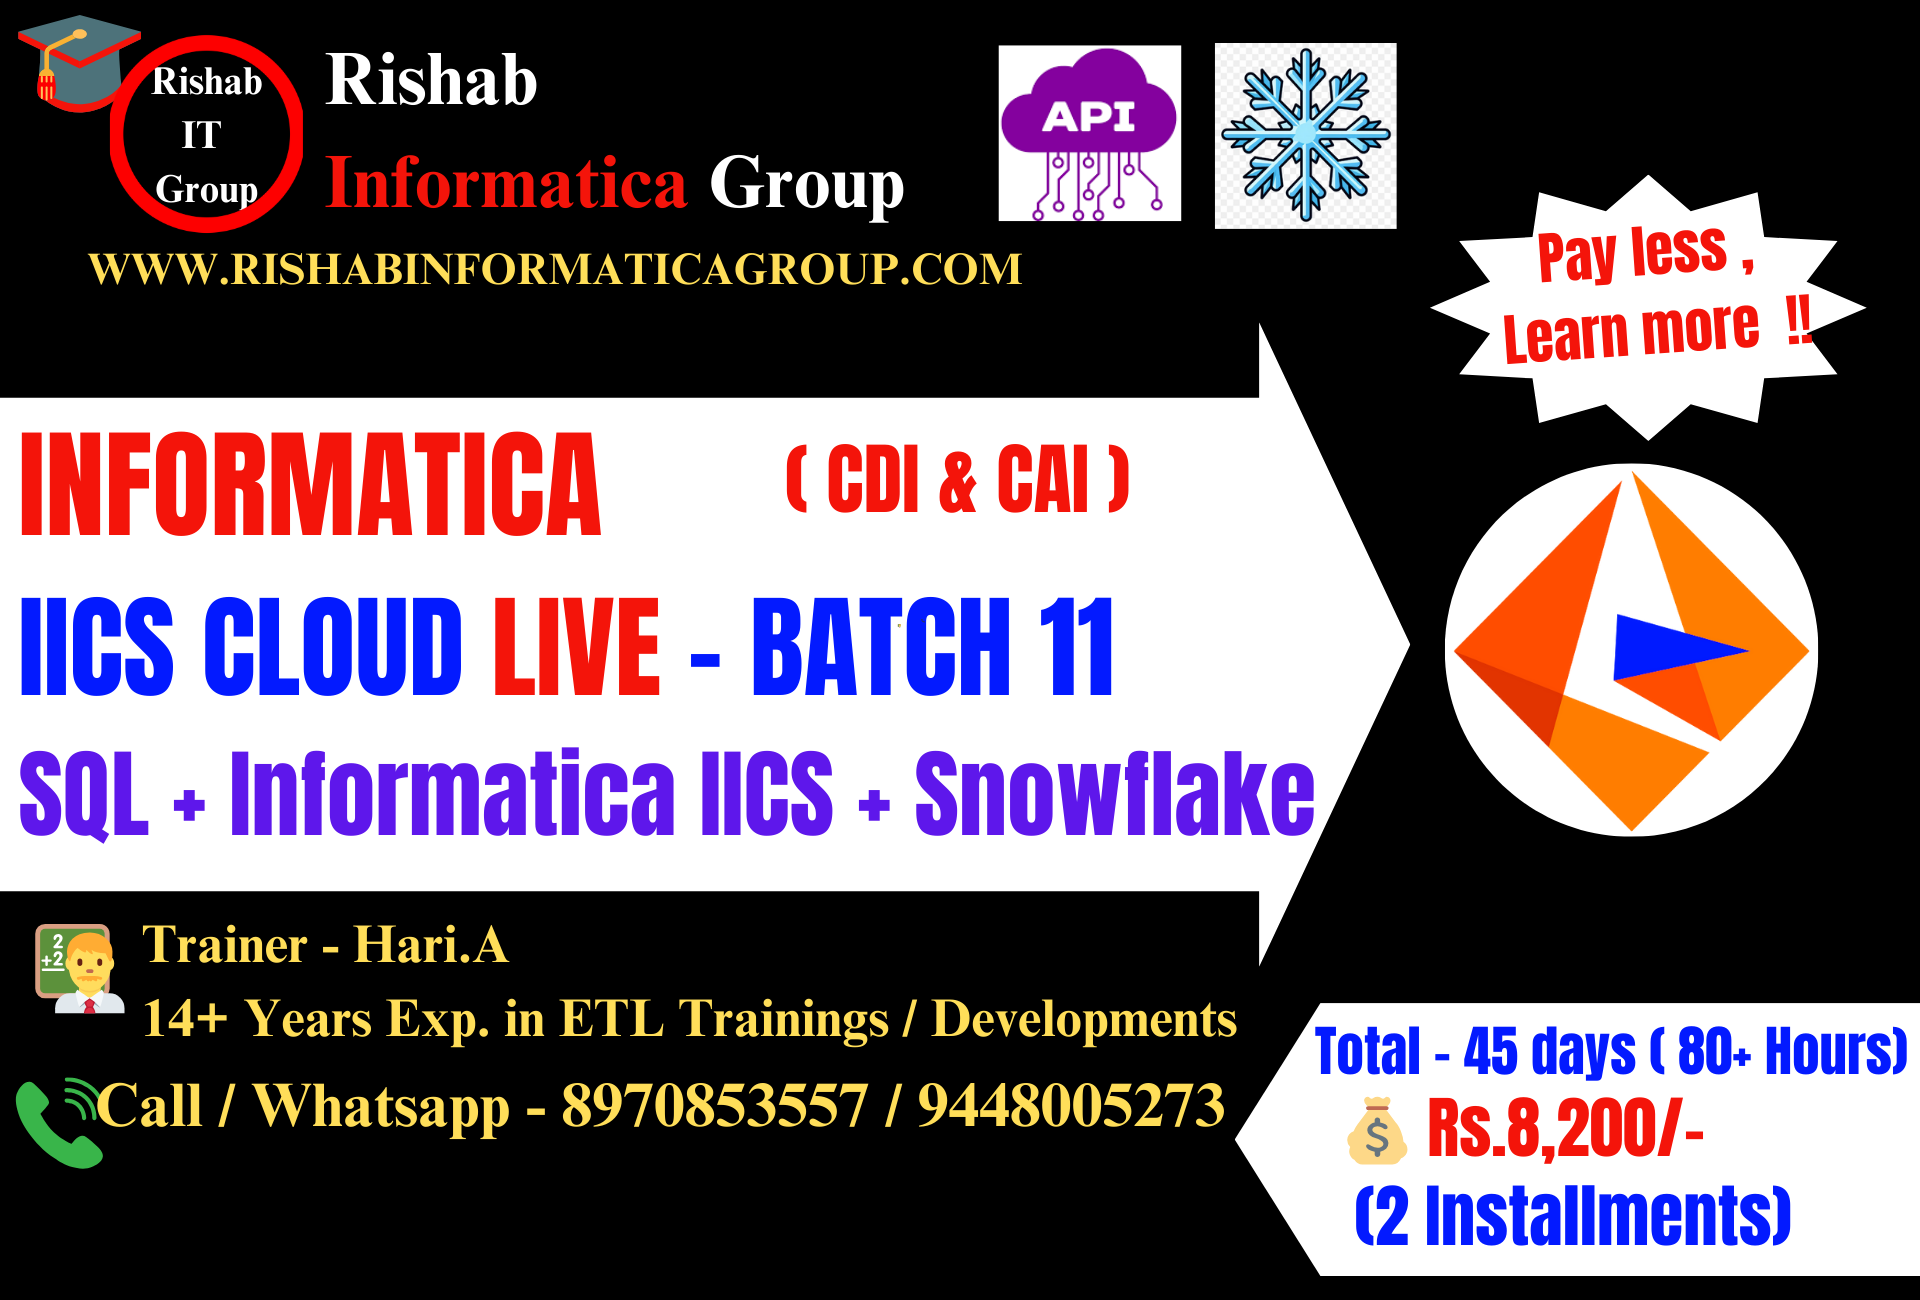
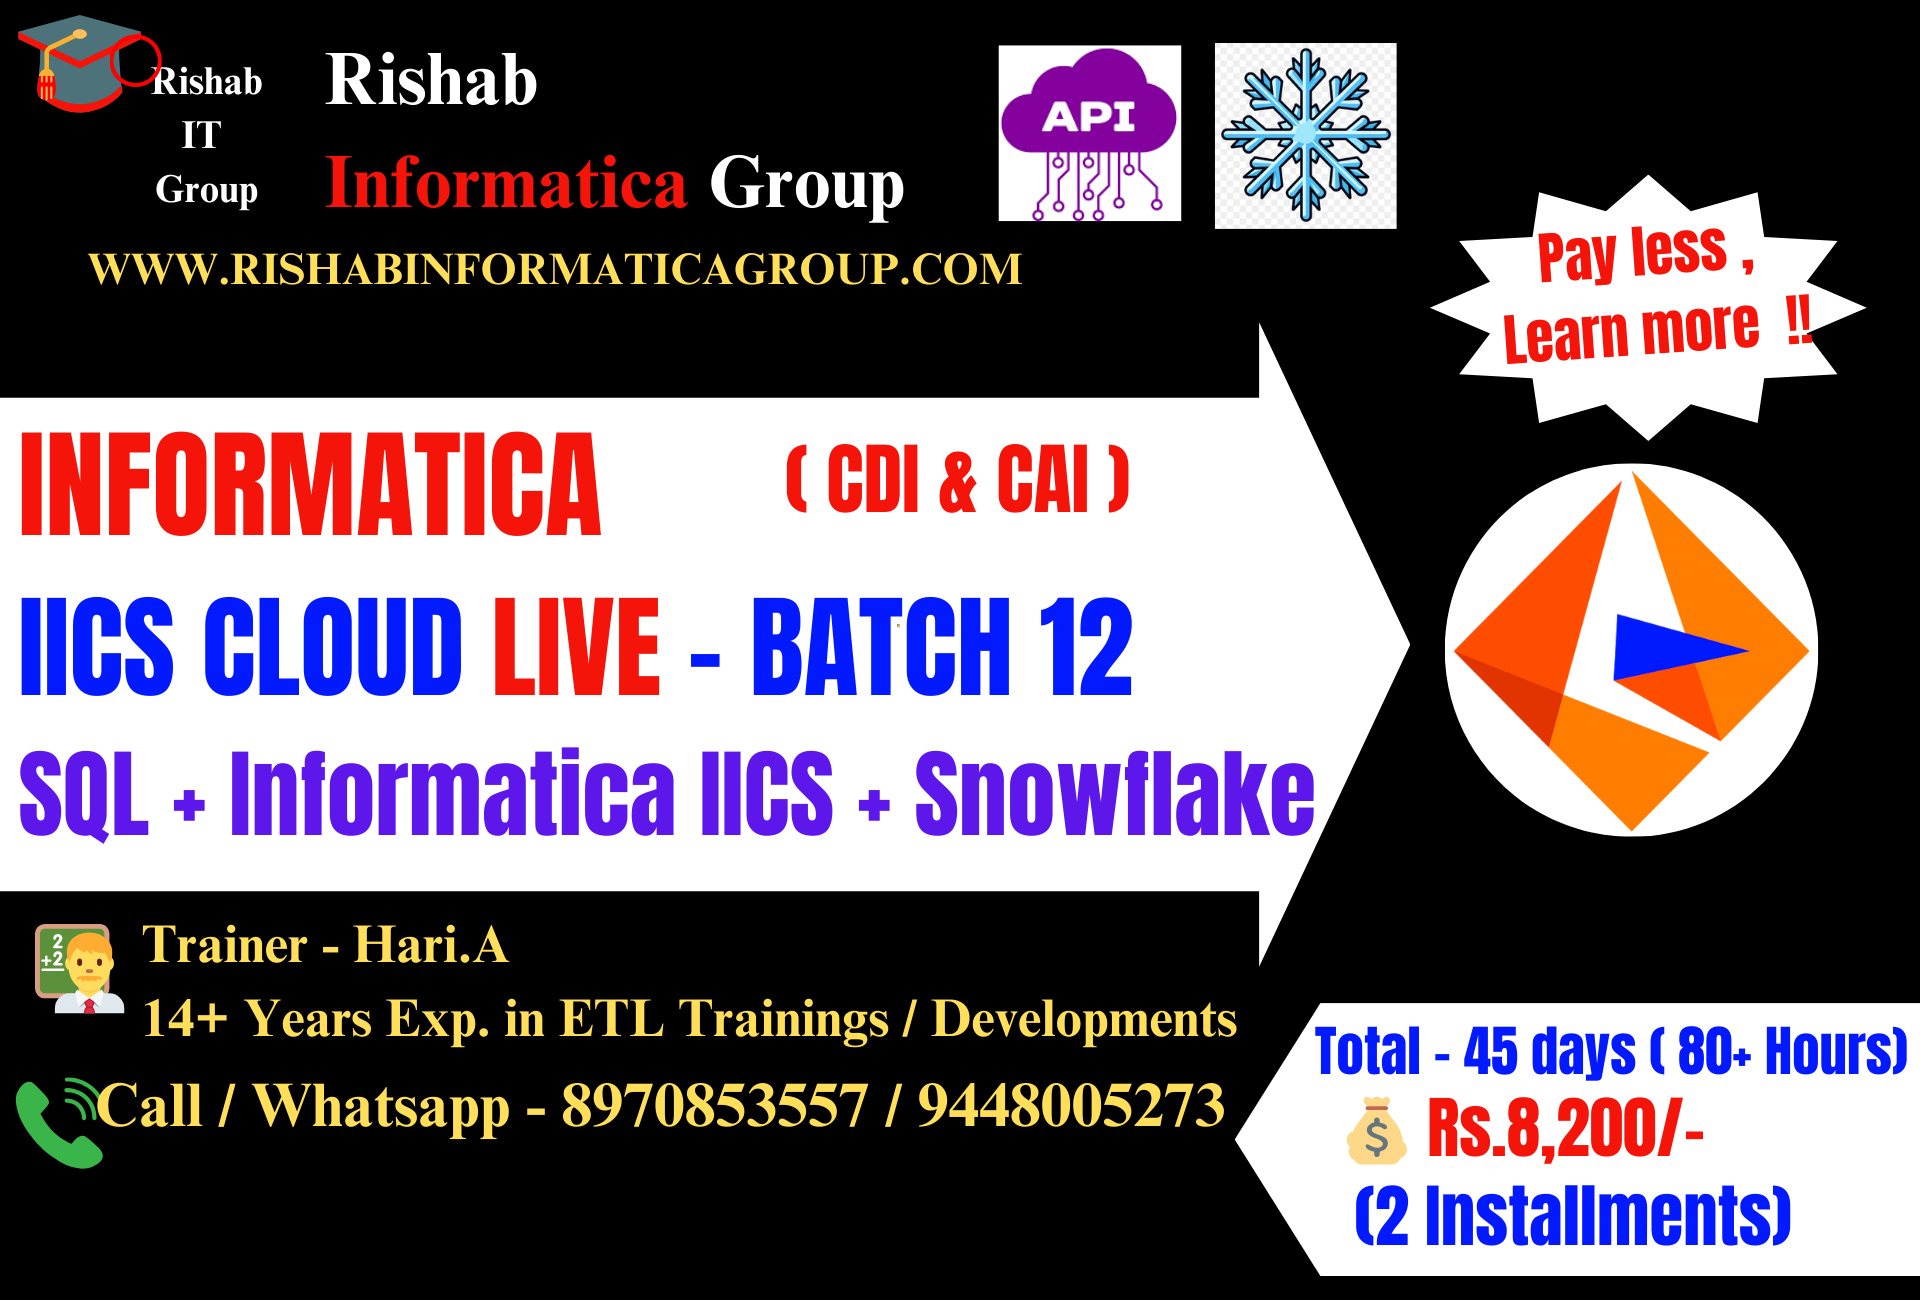
Batch 12 Annoucement

Changed region(s): [[0.0625, 0.0308, 0.1562, 0.1846], [0.5625, 0.4615, 0.5938, 0.5538], [0.0312, 0.0923, 0.0625, 0.1231]]

diff --git a/app/courses/iics-combo-live/page.tsx b/app/courses/iics-combo-live/page.tsx
@@ -7,7 +7,7 @@ import styles from "./page.module.css";
 
 export const metadata = {
   title: "Informatica IICS COMBO Training | PowerCenter + IICS + Snowflake",
-  description: "Join Batch 11 starting June 27, 2025. Master IICS Cloud, PowerCenter, and Snowflake with live projects and placement support.",
+  description: "Join Batch 12 starting Sep 10, 2025. Master IICS Cloud, PowerCenter, and Snowflake with live projects and placement support.",
 };
 
 export default function IICSComboPage() {
@@ -17,7 +17,7 @@ export default function IICSComboPage() {
       <section className={styles.hero}>
         <div className={styles.heroContent}>
           <div className={styles.heroText}>
-            <span className={styles.batchBadge}>New Batch 11 Starts June 27, 2025</span>
+            <span className={styles.batchBadge}>New Batch 12 Starts Sep 10, 2025, 7.15 PM to 9.00 PM</span>
             <h1>Informatica IICS <span className={styles.highlight}>COMBO</span> Training Live</h1>
             <h2>SQL + PowerCenter + IICS Cloud + Snowflake</h2>
             <p className={styles.heroDescription}>
@@ -170,18 +170,18 @@ export default function IICSComboPage() {
         <h2 className={styles.sectionTitle}>Next Batch Details</h2>
         <div className={styles.batchCards}>
           <div className={styles.batchCard}>
-            <h3>Batch 11</h3>
+            <h3>Batch 12</h3>
             <div className={styles.batchInfo}>
               <CalendarIcon />
-              <span>Starts: June 9, 2025</span>
+              <span>Starts: Sep 10, 2025</span>
             </div>
             <div className={styles.batchInfo}>
               <ClockIcon />
-              <span>Timing: 7:30 PM - 9:30 PM IST</span>
+              <span>Timing: 7:15 PM - 9:00 PM IST</span>
             </div>
             <div className={styles.priceTag}>₹9,600 <span className={styles.originalPrice}>₹18,000</span></div>
             <Button asChild className={styles.enrollButton}>
-              <Link href="https://course.rishabinformaticagroup.com/courses/678331" target="_blank">
+              <Link href="https://course.rishabinformaticagroup.com/courses/716015" target="_blank">
                 Enroll Now
               </Link>
             </Button>

diff --git a/app/courses/iics-cloud-live/page.tsx b/app/courses/iics-cloud-live/page.tsx
@@ -7,7 +7,7 @@ import styles from "./page.module.css";
 
 export const metadata = {
   title: "Informatica IICS Cloud Training |SQL + IICS + Snowflake",
-  description: "Join Batch 11 starting June 27, 2025. Master IICS Cloud, PowerCenter, and Snowflake with live projects and placement support.",
+  description: "Join Batch 11 starting Sep 10, 2025. Master IICS Cloud, PowerCenter, and Snowflake with live projects and placement support.",
 };
 
 export default function IICSComboPage() {
@@ -17,7 +17,7 @@ export default function IICSComboPage() {
       <section className={styles.hero}>
         <div className={styles.heroContent}>
           <div className={styles.heroText}>
-            <span className={styles.batchBadge}>New Batch 11 Starts June 27, 2025</span>
+            <span className={styles.batchBadge}>New Batch 12 Starts Sep 10, 2025 , 7.15 AM to 9.00 AM</span>
             <h1>Informatica IICS <span className={styles.highlight}>Cloud</span> Training Live</h1>
             <h2>SQL + Informatica IICS Cloud + Snowflake</h2>
             <p className={styles.heroDescription}>
@@ -170,16 +170,16 @@ export default function IICSComboPage() {
         <h2 className={styles.sectionTitle}>Next Batch Details</h2>
         <div className={styles.batchCards}>
           <div className={styles.batchCard}>
-            <h3>Batch 11</h3>
+            <h3>Batch 12</h3>
             <div className={styles.batchInfo}>
               <CalendarIcon />
-              <span>Starts: June 9, 2025</span>
+              <span>Starts: Sep 10, 2025</span>
             </div>
             <div className={styles.batchInfo}>
               <ClockIcon />
-              <span>Timing: 7:30 PM - 9:30 PM IST</span>
+              <span>Timing: 7:15 AM - 9:00 AM IST</span>
             </div>
-            <div className={styles.priceTag}>₹8,200 <span className={styles.originalPrice}>₹18,000</span></div>
+            <div className={styles.priceTag}>₹8,600 <span className={styles.originalPrice}>₹18,000</span></div>
             <Button asChild className={styles.enrollButton}>
               <Link href="https://course.rishabinformaticagroup.com/courses/679252" target="_blank">
                 Enroll Now
